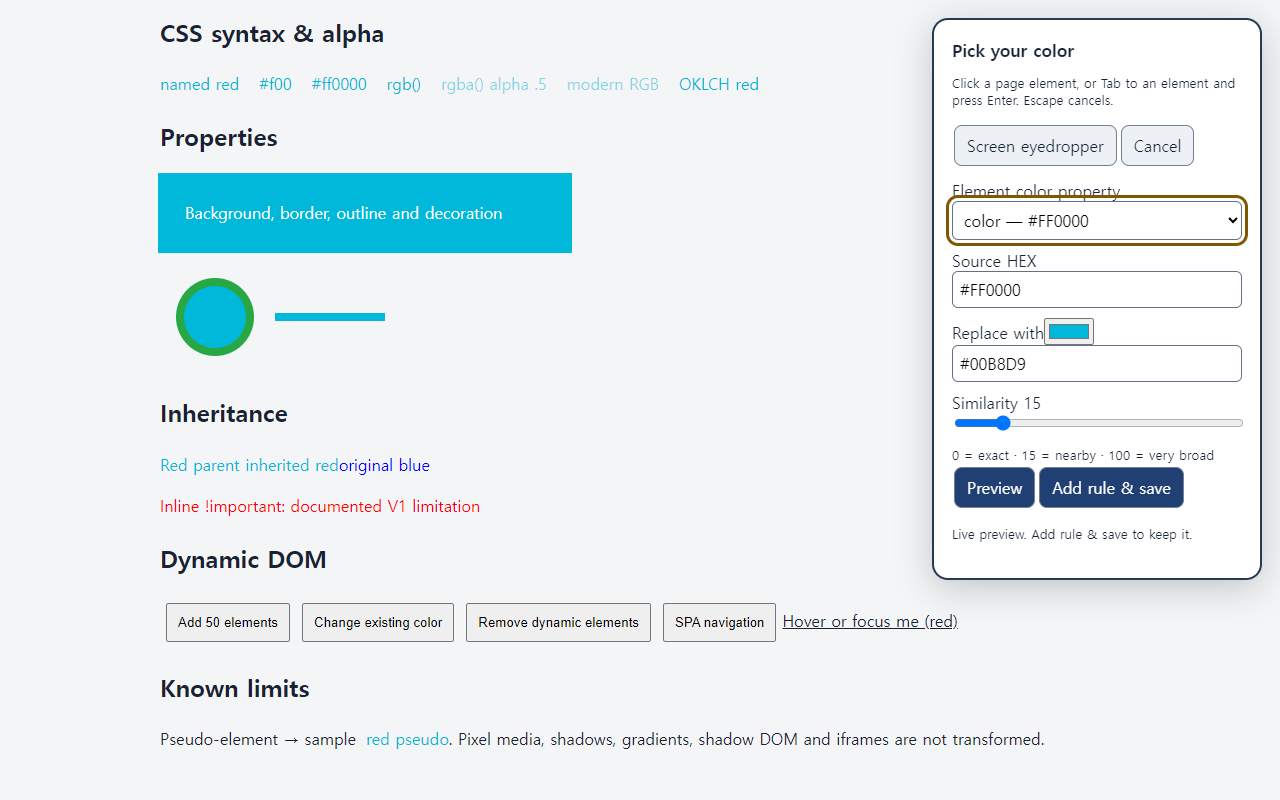
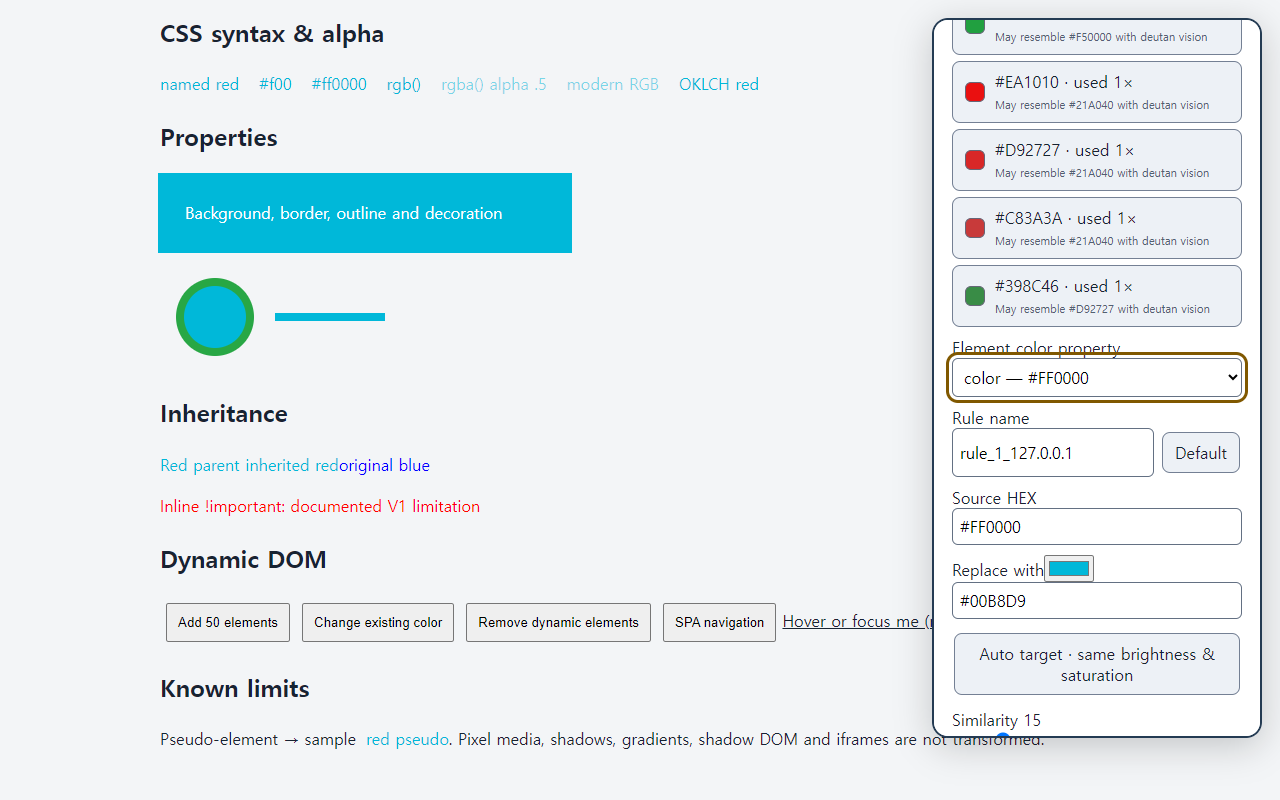
Add named rules and color accessibility suggestions

Changed region(s): [[0.7188, 0.0312, 1.0, 0.8125], [0.7188, 0.875, 0.9688, 0.9375], [0.75, 0.8125, 0.9688, 0.875]]

diff --git a/ui/rule-editor.js b/ui/rule-editor.js
@@ -1,52 +1,49 @@
 (() => {
   const { Color, Model, C } = PCR;
   PCR.RuleEditor = class {
-    constructor(container, onChange) { this.container = container; this.onChange = onChange; }
-    set(rules) { this.rules = rules; this.render(); }
+    constructor(container, onChange) { this.container = container; this.onChange = onChange; this.scope = 'global'; }
+    set(rules, scope = this.scope) { this.rules = rules; this.scope = scope || 'global'; this.syncDefaults(); this.render(); }
+    setScope(scope) { this.scope = scope || 'global'; this.syncDefaults(); this.render(); }
     valid() { return !this.container.querySelector('[aria-invalid="true"]'); }
-    add(source) { if (this.rules.length >= C.MAX_RULES) throw new Error(`Maximum ${C.MAX_RULES} rules.`); this.rules.push(Model.rule(source)); this.render(); this.onChange(); this.container.lastElementChild?.querySelector('input')?.focus(); }
+    syncDefaults() { this.rules.forEach((rule, index) => { if (!rule.customName) { rule.name = Model.defaultRuleName(index, this.scope); rule.customName = false; } }); }
+    add(source) { if (this.rules.length >= C.MAX_RULES) throw new Error(`Maximum ${C.MAX_RULES} rules.`); this.rules.push(Model.rule(source, this.rules.length, this.scope)); this.render(); this.onChange(); this.container.lastElementChild?.querySelector('.rule-name')?.focus(); }
     render() {
-      this.container.replaceChildren();
+      this.syncDefaults(); this.container.replaceChildren();
       if (!this.rules.length) { const p = document.createElement('p'); p.className = 'empty'; p.textContent = 'Choose a difficult color, then a replacement you can distinguish.'; this.container.append(p); }
       this.rules.forEach((rule, index) => {
         const fieldset = document.createElement('fieldset'); fieldset.className = 'rule';
-        const legend = document.createElement('legend'); legend.textContent = `Rule ${index + 1}`; fieldset.append(legend);
+        const legend = document.createElement('legend'); legend.textContent = rule.name; fieldset.append(legend);
+        const nameRow = document.createElement('div'); nameRow.className = 'rule-name-row';
+        const nameLabel = document.createElement('label'); nameLabel.className = 'name'; nameLabel.append('Rule name');
+        const name = document.createElement('input'); name.type = 'text'; name.className = 'rule-name'; name.value = rule.name; name.maxLength = 120; name.readOnly = true; name.setAttribute('aria-label', `Rule ${index + 1} name`); nameLabel.append(name);
+        const rename = document.createElement('button'); rename.type = 'button'; rename.textContent = 'Rename'; rename.onclick = () => { name.readOnly = false; name.focus(); name.select(); };
+        const reset = document.createElement('button'); reset.type = 'button'; reset.textContent = 'Default'; reset.title = 'Restore the generated rule name';
+        reset.onclick = () => { rule.customName = false; rule.name = Model.defaultRuleName(index, this.scope); name.value = rule.name; name.readOnly = true; legend.textContent = rule.name; this.onChange(); };
+        name.oninput = () => { const value = name.value.trim(); name.setAttribute('aria-invalid', String(!value)); if (value) { rule.name = value; rule.customName = true; legend.textContent = value; } this.onChange(); };
+        name.onblur = () => { if (name.value.trim()) name.readOnly = true; };
+        nameRow.append(nameLabel, rename, reset); fieldset.append(nameRow);
         const toggle = document.createElement('label'); toggle.className = 'toggle';
-        const checkbox = document.createElement('input'); checkbox.type = 'checkbox'; checkbox.checked = rule.enabled;
-        checkbox.onchange = () => { rule.enabled = checkbox.checked; this.onChange(); };
+        const checkbox = document.createElement('input'); checkbox.type = 'checkbox'; checkbox.checked = rule.enabled; checkbox.onchange = () => { rule.enabled = checkbox.checked; this.onChange(); };
         toggle.append(checkbox, 'Rule enabled'); fieldset.append(toggle);
         const fields = document.createElement('div'); fields.className = 'color-fields';
         for (const [key, title] of [['source', 'Source'], ['target', 'Target']]) {
-          const label = document.createElement('div'); label.className = 'color-field';
-          const span = document.createElement('span'); span.textContent = title;
-          const row = document.createElement('div'); row.className = 'row';
+          const label = document.createElement('div'); label.className = 'color-field'; const span = document.createElement('span'); span.textContent = title; const row = document.createElement('div'); row.className = 'row';
           const color = document.createElement('input'); color.type = 'color'; color.value = rule[key]; color.setAttribute('aria-label', `Rule ${index + 1} ${title} color`);
           const hex = document.createElement('input'); hex.type = 'text'; hex.className = 'hex'; hex.value = rule[key]; hex.maxLength = 7; hex.spellcheck = false; hex.setAttribute('aria-label', `Rule ${index + 1} ${title} HEX`);
           const error = document.createElement('small'); error.className = 'error'; error.id = `error-${rule.id}-${key}`; error.setAttribute('aria-live', 'polite'); hex.setAttribute('aria-describedby', error.id);
           color.oninput = () => { rule[key] = color.value.toUpperCase(); hex.value = rule[key]; hex.removeAttribute('aria-invalid'); error.textContent = ''; this.onChange(); };
-          hex.oninput = () => {
-            const valid = /^#(?:[\da-f]{3}|[\da-f]{6})$/i.test(hex.value.trim());
-            hex.setAttribute('aria-invalid', String(!valid)); error.textContent = valid ? '' : 'Use #RGB or #RRGGBB';
-            if (valid) { rule[key] = Color.rgbToHex(Color.hexToRgb(hex.value.trim())); color.value = rule[key]; }
-            this.onChange();
-          };
+          hex.oninput = () => { const valid = /^#(?:[\da-f]{3}|[\da-f]{6})$/i.test(hex.value.trim()); hex.setAttribute('aria-invalid', String(!valid)); error.textContent = valid ? '' : 'Use #RGB or #RRGGBB'; if (valid) { rule[key] = Color.rgbToHex(Color.hexToRgb(hex.value.trim())); color.value = rule[key]; } this.onChange(); };
           row.append(color, hex); label.append(span, row, error); fields.append(label);
         }
         fieldset.append(fields);
-        const label = document.createElement('label'); const text = document.createElement('span'); text.className = 'threshold-label';
-        const output = document.createElement('output'); output.value = rule.threshold;
-        text.append('Similarity', output);
-        const range = document.createElement('input'); range.type = 'range'; range.min = C.THRESHOLD_MIN; range.max = C.THRESHOLD_MAX; range.step = 1; range.value = rule.threshold;
-        range.setAttribute('aria-label', `Rule ${index + 1} similarity`);
-        range.oninput = () => { rule.threshold = Number(range.value); output.value = range.value; this.onChange(); };
+        const recommend = document.createElement('button'); recommend.type = 'button'; recommend.className = 'recommend'; recommend.textContent = 'Auto target · same brightness & saturation';
+        recommend.onclick = () => { const suggestion = Color.recommendTarget(rule.source); if (!suggestion) return; rule.target = suggestion.hex; this.render(); this.onChange(); }; fieldset.append(recommend);
+        const label = document.createElement('label'); const text = document.createElement('span'); text.className = 'threshold-label'; const output = document.createElement('output'); output.value = rule.threshold; text.append('Similarity', output);
+        const range = document.createElement('input'); range.type = 'range'; range.min = C.THRESHOLD_MIN; range.max = C.THRESHOLD_MAX; range.step = 1; range.value = rule.threshold; range.setAttribute('aria-label', `Rule ${index + 1} similarity`); range.oninput = () => { rule.threshold = Number(range.value); output.value = range.value; this.onChange(); };
         label.append(text, range); fieldset.append(label);
         const actions = document.createElement('div'); actions.className = 'rule-actions';
-        for (const [title, offset] of [['Move up', -1], ['Move down', 1]]) {
-          const button = document.createElement('button'); button.textContent = title; button.type = 'button'; button.disabled = index + offset < 0 || index + offset >= this.rules.length;
-          button.onclick = () => { const other = index + offset; [this.rules[index], this.rules[other]] = [this.rules[other], this.rules[index]]; this.render(); this.onChange(); }; actions.append(button);
-        }
-        const remove = document.createElement('button'); remove.type = 'button'; remove.className = 'danger'; remove.textContent = 'Delete'; remove.setAttribute('aria-label', `Delete rule ${index + 1}`);
-        remove.onclick = () => { this.rules.splice(index, 1); this.render(); this.onChange(); this.container.querySelector('input')?.focus(); }; actions.append(remove); fieldset.append(actions);
+        for (const [title, offset] of [['Move up', -1], ['Move down', 1]]) { const button = document.createElement('button'); button.textContent = title; button.type = 'button'; button.disabled = index + offset < 0 || index + offset >= this.rules.length; button.onclick = () => { const other = index + offset; [this.rules[index], this.rules[other]] = [this.rules[other], this.rules[index]]; this.syncDefaults(); this.render(); this.onChange(); }; actions.append(button); }
+        const remove = document.createElement('button'); remove.type = 'button'; remove.className = 'danger'; remove.textContent = 'Delete'; remove.setAttribute('aria-label', `Delete rule ${index + 1}`); remove.onclick = () => { this.rules.splice(index, 1); this.syncDefaults(); this.render(); this.onChange(); this.container.querySelector('input')?.focus(); }; actions.append(remove); fieldset.append(actions);
         this.container.append(fieldset);
       });
     }

diff --git a/content/picker.js b/content/picker.js
@@ -14,13 +14,16 @@
         button{padding:9px 12px;background:#edf1f6;color:#172332;border:1px solid #748094;border-radius:8px;cursor:pointer;margin:4px 2px}button.primary{background:#203f73;color:white}button:disabled{opacity:.5;cursor:default}
         :focus-visible{outline:3px solid #805800;outline-offset:3px}input[type=range]{width:100%}
         #box{position:fixed;border:3px dashed #111;outline:2px solid white;pointer-events:none;display:none}
-        #notice{min-height:22px}small{display:block}
+        #notice{min-height:22px}small{display:block}.suggestions{display:grid;gap:6px;margin:8px 0}.suggestion{display:grid;grid-template-columns:22px 1fr;gap:8px;text-align:left;align-items:center;margin:0}.dot{width:20px;height:20px;border:1px solid #667;border-radius:6px}.hint{font-size:11px;color:#526071}.inline{display:flex;gap:6px}.inline input{flex:1}
       </style><div id="box"></div><section role="dialog" aria-label="Choose and replace a page color">
         <h2>Pick your color</h2><p>Click a page element, or Tab to an element and press Enter. Escape cancels.</p>
         <button id="native">Screen eyedropper</button><button id="cancel">Cancel</button>
+        <details open><summary>Likely red/green confusion colors</summary><div id="suggestions" class="suggestions"><small>Analyzing colors used on this page…</small></div></details>
         <label>Element color property<select id="property" aria-label="Selected element color property"><option>Select a page element first</option></select></label>
+        <label>Rule name<div class="inline"><input id="name" type="text" maxlength="120"><button id="default-name" type="button">Default</button></div></label>
         <label>Source HEX<input id="source" type="text" value="#28A745" maxlength="7"></label>
         <label>Replace with<input id="target" type="color" value="#2979ff" aria-label="Replacement color"><input id="hex" type="text" value="#2979FF" maxlength="7" aria-label="Replacement HEX"></label>
+        <button id="recommend" type="button">Auto target · same brightness & saturation</button>
         <label>Similarity <output id="value">${P.C.THRESHOLD_DEFAULT}</output><input id="range" type="range" min="${P.C.THRESHOLD_MIN}" max="${P.C.THRESHOLD_MAX}" value="${P.C.THRESHOLD_DEFAULT}"></label>
         <small>0 = exact · 15 = nearby · 100 = very broad</small>
         <button id="preview" class="primary">Preview</button><button id="save" class="primary" disabled>Add rule & save</button>
@@ -30,7 +33,8 @@
       this.$ = id => root.getElementById(id);
       this.selected = false; this.previewing = false;
       this.profile = structuredClone(this.state.profiles[this.host] || P.Model.profile(this.host));
-      this.newRule = P.Model.rule();
+      this.newRule = P.Model.rule('#28A745', this.profile.rules.length, this.host);
+      this.$('name').value = this.newRule.name;
       this.hover = e => {
         if (this.previewing || e.composedPath().includes(this.hostElement) || !(e.target instanceof Element)) return;
         const rect = e.target.getBoundingClientRect();
@@ -48,12 +52,15 @@
       this.key = e => { if (e.key === 'Escape') { e.preventDefault(); this.stop(); } else if (e.key === 'Enter' && !e.composedPath().includes(this.hostElement)) this.choose(e); };
       document.addEventListener('pointermove', this.hover, true); document.addEventListener('click', this.choose, true); document.addEventListener('keydown', this.key, true);
       this.$('property').onchange = () => this.select(this.$('property').value);
+      this.$('name').oninput = () => { this.newRule.name = this.$('name').value.trim(); this.newRule.customName = true; this.update(); };
+      this.$('default-name').onclick = () => { this.newRule.customName = false; this.newRule.name = P.Model.defaultRuleName(this.profile.rules.length, this.host); this.$('name').value = this.newRule.name; this.update(); };
       this.$('cancel').onclick = () => this.stop();
       this.$('target').oninput = () => { this.$('hex').value = this.$('target').value.toUpperCase(); this.update(); };
       this.$('hex').oninput = () => { const c = P.Color.hexToRgb(this.$('hex').value); if (c) this.$('target').value = P.Color.rgbToHex(c); this.update(); };
       this.$('source').oninput = () => { this.selected = true; this.update(); };
       this.$('range').oninput = () => { this.$('value').value = this.$('range').value; this.update(); };
       this.$('preview').onclick = () => { this.previewing = true; this.$('box').style.display = 'none'; this.update(); };
+      this.$('recommend').onclick = () => this.recommend();
       this.$('save').onclick = async () => {
         try {
           if (!this.update()) return;
@@ -74,15 +81,38 @@
           this.select(result.sRGBHex); this.$('source').focus();
         } catch (e) { if (e.name !== 'AbortError') this.$('notice').textContent = 'Screen eyedropper unavailable. Click a page element instead.'; }
       };
+      setTimeout(() => this.renderSuggestions(), 0);
       this.$('cancel').focus();
     }
-    select(hex) { this.selected = true; this.$('source').value = hex; this.$('notice').textContent = `Detected ${hex}. Choose a replacement, then preview.`; this.update(); }
+    renderSuggestions() {
+      if (!this.hostElement) return;
+      try {
+        const report = this.scanner.confusingColors(); const box = this.$('suggestions'); box.replaceChildren();
+        if (!report.suggestions.length) { const empty = document.createElement('small'); empty.textContent = `No strong confusion pairs found among ${report.unique} page colors. You can still click any element.`; box.append(empty); return; }
+        for (const item of report.suggestions) {
+          const button = document.createElement('button'); button.type = 'button'; button.className = 'suggestion';
+          const dot = document.createElement('span'); dot.className = 'dot'; dot.style.background = item.hex; dot.setAttribute('aria-hidden', 'true');
+          const text = document.createElement('span'); text.append(`${item.hex} · used ${item.count}×`);
+          const hint = document.createElement('span'); hint.className = 'hint'; hint.textContent = `May resemble ${item.mate} with ${item.type === 'protan' ? 'protan' : 'deutan'} vision`; text.append(document.createElement('br'), hint);
+          button.append(dot, text); button.onclick = () => { this.select(item.hex, item.mate); this.$('source').focus(); };
+          box.append(button);
+        }
+      } catch (e) { this.$('suggestions').textContent = 'Page color analysis was unavailable. Click an element instead.'; }
+    }
+    recommend() {
+      const suggestion = P.Color.recommendTarget(this.$('source').value.trim(), this.currentMate ? [this.currentMate] : []);
+      if (!suggestion) { this.$('notice').textContent = 'Choose a valid source color first.'; return; }
+      this.$('target').value = suggestion.hex; this.$('hex').value = suggestion.hex;
+      this.$('notice').textContent = suggestion.exactChroma ? `Suggested ${suggestion.hex}; OKLCH brightness and saturation are preserved.` : `Suggested ${suggestion.hex}; brightness is preserved and saturation was reduced slightly to fit sRGB.`;
+      this.update();
+    }
+    select(hex, mate = null) { this.selected = true; this.currentMate = mate; this.$('source').value = hex; this.$('notice').textContent = `Detected ${hex}. Choose a replacement, then preview.`; this.update(); }
     update() {
       const source = this.$('source').value.trim(), target = this.$('hex').value.trim();
-      const valid = this.selected && [source, target].every(v => /^#(?:[\da-f]{3}|[\da-f]{6})$/i.test(v));
+      const valid = this.selected && this.$('name').value.trim() && [source, target].every(v => /^#(?:[\da-f]{3}|[\da-f]{6})$/i.test(v));
       this.$('save').disabled = !valid;
       if (!valid) { this.$('notice').textContent = 'Select a color and enter valid #RGB or #RRGGBB values.'; return false; }
-      Object.assign(this.newRule, { source: P.Color.rgbToHex(P.Color.hexToRgb(source)), target: P.Color.rgbToHex(P.Color.hexToRgb(target)), threshold: Number(this.$('range').value) });
+      Object.assign(this.newRule, { name: this.$('name').value.trim(), source: P.Color.rgbToHex(P.Color.hexToRgb(source)), target: P.Color.rgbToHex(P.Color.hexToRgb(target)), threshold: Number(this.$('range').value) });
       if (this.previewing) {
         try {
           const profile = structuredClone(this.profile); profile.rules.push(this.newRule); this.preview(profile);

diff --git a/utils/color.js b/utils/color.js
@@ -42,6 +42,82 @@
       1.9779984951*l - 2.428592205*m + 0.4505937099*s,
       0.0259040371*l + 0.7827717662*m - 0.808675766*s];
   }
+  function fromOklab([L, a, b]) {
+    const l = (L + 0.3963377774*a + 0.2158037573*b) ** 3;
+    const m = (L - 0.1055613458*a - 0.0638541728*b) ** 3;
+    const s = (L - 0.0894841775*a - 1.291485548*b) ** 3;
+    const linear = [
+      4.0767416621*l - 3.3077115913*m + 0.2309699292*s,
+      -1.2684380046*l + 2.6097574011*m - 0.3413193965*s,
+      -0.0041960863*l - 0.7034186147*m + 1.707614701*s
+    ];
+    const srgb = v => 255 * (v <= 0.0031308 ? 12.92*v : 1.055*Math.pow(v, 1/2.4) - 0.055);
+    return { r: srgb(linear[0]), g: srgb(linear[1]), b: srgb(linear[2]), a: 1 };
+  }
+  const toOklch = rgb => { const [L, a, b] = toOklab(rgb); return [L, Math.hypot(a, b), (Math.atan2(b, a) * 180 / Math.PI + 360) % 360]; };
+  const fromOklch = ([L, C, h]) => { const rad = h * Math.PI / 180; return fromOklab([L, C*Math.cos(rad), C*Math.sin(rad)]); };
+  const inGamut = rgb => [rgb.r, rgb.g, rgb.b].every(v => Number.isFinite(v) && v >= -0.001 && v <= 255.001);
+  function simulate(rgb, type) {
+    const linearize = v => (v /= 255) <= 0.04045 ? v / 12.92 : ((v + 0.055) / 1.055) ** 2.4;
+    const encode = v => 255 * (v <= 0.0031308 ? 12.92*v : 1.055*Math.pow(Math.max(0, v), 1/2.4) - 0.055);
+    const v = [linearize(rgb.r), linearize(rgb.g), linearize(rgb.b)];
+    const matrices = {
+      protan: [[0.152286,1.052583,-0.204868],[0.114503,0.786281,0.099216],[-0.003882,-0.048116,1.051998]],
+      deutan: [[0.367322,0.860646,-0.227968],[0.280085,0.672501,0.047413],[-0.011820,0.042940,0.968881]]
+    };
+    const out = matrices[type].map(row => row.reduce((sum, n, i) => sum + n*v[i], 0));
+    return { r: clamp(encode(out[0]), 255), g: clamp(encode(out[1]), 255), b: clamp(encode(out[2]), 255), a: rgb.a ?? 1 };
+  }
+  function confusionCandidates(entries, limit = 8) {
+    const colors = entries.map(entry => ({ ...entry, rgb: hexToRgb(entry.hex) })).filter(x => x.rgb);
+    const pairs = [];
+    for (let i = 0; i < colors.length; i++) for (let j = i + 1; j < colors.length; j++) {
+      const normal = distance(toOklab(colors[i].rgb), toOklab(colors[j].rgb));
+      if (normal < 6) continue;
+      for (const type of ['protan', 'deutan']) {
+        const simulated = distance(toOklab(simulate(colors[i].rgb, type)), toOklab(simulate(colors[j].rgb, type)));
+        const collapse = normal - simulated;
+        if (simulated <= 14 && collapse >= 3 && simulated / normal <= 0.72) {
+          const score = collapse * (1 + Math.log2(1 + Math.min(colors[i].count, colors[j].count)) / 4);
+          pairs.push({ a: colors[i], b: colors[j], type, normal, simulated, score });
+        }
+      }
+    }
+    pairs.sort((a, b) => b.score - a.score);
+    const result = [], seen = new Set();
+    for (const pair of pairs) {
+      for (const [color, mate] of [[pair.a, pair.b], [pair.b, pair.a]]) {
+        if (seen.has(color.hex)) continue;
+        seen.add(color.hex); result.push({ hex: color.hex, count: color.count, mate: mate.hex, type: pair.type,
+          normal: Number(pair.normal.toFixed(1)), simulated: Number(pair.simulated.toFixed(1)) });
+        if (result.length >= limit) return result;
+      }
+    }
+    return result;
+  }
+  function recommendTarget(source, avoid = []) {
+    const rgb = typeof source === 'string' ? hexToRgb(source) : source;
+    if (!rgb) return null;
+    const [L, originalC] = toOklch(rgb);
+    const avoidRgb = avoid.map(value => typeof value === 'string' ? hexToRgb(value) : value).filter(Boolean);
+    const hues = [255, 275, 295, 230, 315, 210, 330, 195];
+    const candidates = [];
+    for (const hue of hues) {
+      let C = originalC, candidate = fromOklch([L, C, hue]);
+      while (!inGamut(candidate) && C > 0.005) { C *= 0.97; candidate = fromOklch([L, C, hue]); }
+      if (!inGamut(candidate)) continue;
+      const distances = ['protan', 'deutan'].flatMap(type => {
+        const transformed = simulate(candidate, type);
+        return [distance(toOklab(transformed), toOklab(simulate(rgb, type))),
+          ...avoidRgb.map(other => distance(toOklab(transformed), toOklab(simulate(other, type))))];
+      });
+      candidates.push({ rgb: candidate, hue, chroma: C, score: Math.min(...distances) });
+    }
+    candidates.sort((a, b) => b.score - a.score);
+    const best = candidates[0];
+    return best && { hex: rgbToHex(best.rgb), lightness: L, sourceChroma: originalC, targetChroma: best.chroma,
+      exactChroma: Math.abs(best.chroma - originalC) < 0.001, hue: best.hue };
+  }
   const distance = (a, b) => 100 * Math.hypot(...a.map((v, i) => v - b[i]));
   const css = ({ r, g, b, a = 1 }) => `rgba(${Math.round(r)}, ${Math.round(g)}, ${Math.round(b)}, ${Number(a.toFixed(5))})`;
   // Browser adapter for named colors, hsl(), lab(), oklch(), color(), etc.
@@ -58,5 +134,6 @@
       return { r, g, b, a: a / 255 };
     };
   }
-  P.Color = { hexToRgb, rgbToHex, parseCss, toOklab, distance, css, browserParser };
+  P.Color = { hexToRgb, rgbToHex, parseCss, toOklab, fromOklab, toOklch, fromOklch, distance, css,
+    simulate, confusionCandidates, recommendTarget, browserParser };
 })();

diff --git a/guide/guide.html b/guide/guide.html
@@ -1,0 +1,11 @@
+<!doctype html><html lang="ko"><head><meta charset="utf-8"><meta name="viewport" content="width=device-width,initial-scale=1"><title>Personal Color Remapper 사용 가이드</title><link rel="stylesheet" href="guide.css"></head>
+<body><header><div class="mark" aria-hidden="true">↔</div><div><p class="eyebrow">Personal Color Remapper</p><h1>내 눈에 맞는 색으로 웹을 다시 읽는 방법</h1><p>어려운 색을 고르고, 비슷한 색의 범위를 정하고, 구분하기 쉬운 색으로 바꾸세요.</p></div></header>
+<main><nav aria-label="목차"><strong>빠른 이동</strong><a href="#quick">첫 규칙 만들기</a><a href="#suggestions">혼동 색상 추천</a><a href="#auto">자동 대체색</a><a href="#names">규칙 이름</a><a href="#global">모든 사이트</a><a href="#manage">백업과 관리</a><a href="#limits">제한사항</a></nav><article>
+<section id="quick"><span class="step">1</span><h2>첫 규칙 만들기</h2><ol><li>바꾸려는 웹사이트에서 Extension 아이콘을 엽니다.</li><li><b>Pick color from page</b>를 누르고 페이지 요소를 클릭합니다.</li><li>요소에 여러 색 속성이 있으면 text, background, border, fill 중 원하는 항목을 고릅니다.</li><li>Target과 Similarity를 정합니다. 0은 정확한 색만, 15는 가까운 색까지 포함합니다.</li><li><b>Preview</b>로 확인한 뒤 <b>Add rule &amp; save</b>를 누릅니다.</li></ol><aside>Popup에서 직접 Source와 Target을 입력할 수도 있습니다. Popup을 닫으면 미저장 미리보기는 원복됩니다.</aside></section>
+<section id="suggestions"><span class="step">2</span><h2>페이지의 적록 혼동 후보 바로 선택</h2><p>색상 선택 패널은 현재 페이지에서 실제 사용 중인 CSS/SVG 색을 수집합니다. 적색맹·녹색맹 시뮬레이션에서 서로 가까워지는 색상 쌍을 찾아 사용 빈도와 함께 보여줍니다.</p><p>제안 항목을 누르면 Source로 들어갑니다. “may resemble” 옆의 색은 해당 색과 혼동될 가능성이 있는 페이지 색입니다. 추천은 진단이 아니며 실제로 불편한 색인지 미리보기로 확인하세요.</p></section>
+<section id="auto"><span class="step">3</span><h2>밝기와 채도를 맞춘 자동 대체색</h2><p><b>Auto target · same brightness &amp; saturation</b>은 원본을 OKLCH로 변환한 뒤 밝기(L)와 채도(C)를 유지하면서 파랑·청록·보라 계열 후보 중 적록 색각 시뮬레이션에서 가장 잘 구분되는 색을 선택합니다.</p><p>같은 밝기와 채도의 색이 sRGB 화면 범위 밖이면 밝기는 유지하고 채도만 화면에 표시 가능한 수준까지 조금 낮춥니다. 자동 추천 후에도 주변 배경과의 대비를 직접 확인하세요.</p></section>
+<section id="names"><span class="step">4</span><h2>규칙 이름 관리</h2><p>새 규칙의 기본 이름은 <code>rule_번호_웹주소</code>입니다. 예: <code>rule_1_github.com</code>.</p><ul><li><b>Rename</b>: 이름 입력을 열어 “실패 상태 빨강”처럼 변경합니다.</li><li><b>Default</b>: 현재 순서와 사이트 주소를 이용한 기본 이름으로 되돌립니다.</li><li>기본 이름 상태의 규칙은 순서를 이동하거나 앞 규칙을 삭제하면 번호가 자동으로 갱신됩니다.</li></ul></section>
+<section id="global"><span class="step">5</span><h2>모든 사이트에 적용</h2><ol><li><b>Advanced settings</b>에서 Global 프로필을 선택합니다.</li><li><b>Profile enabled</b>를 켜고 규칙을 저장합니다.</li><li><b>Allow all websites…</b>를 눌러 사이트 접근을 허용합니다.</li></ol><aside>도메인 규칙이 Global 규칙보다 먼저 적용됩니다. 특정 사이트 프로필을 끄면 그 사이트에서는 Global 규칙도 적용되지 않습니다.</aside></section>
+<section id="manage"><span class="step">6</span><h2>프로필, 백업, 복구</h2><p>Advanced settings에서 도메인별 프로필을 복제·삭제할 수 있습니다. Export는 모든 저장 설정을 JSON으로 내려받고 Import는 검증 후 기존 설정을 교체합니다. Reset 전에 Export로 백업하는 것을 권장합니다.</p></section>
+<section id="limits"><span class="step">7</span><h2>지원 범위와 문제 해결</h2><ul><li>지원: 텍스트, 배경, 테두리, outline, text decoration, SVG fill/stroke.</li><li>미지원: 이미지, 영상, Canvas, WebGL, gradient, shadow DOM, iframe 내부.</li><li>Chrome 설정과 Chrome Web Store 같은 보호 페이지에는 적용할 수 없습니다.</li><li>저장 후 새 방문에 적용되지 않으면 사이트 권한을 확인하고 열린 탭을 새로고침하세요.</li><li>너무 많은 색이 바뀌면 Similarity를 낮추고 규칙 순서를 확인하세요. 먼저 일치한 규칙이 적용됩니다.</li></ul></section>
+</article></main><footer><p>모든 처리는 브라우저 안에서 이루어집니다. 서버, 계정, 분석 도구를 사용하지 않습니다.</p><a href="../privacy.html">개인정보처리방침</a></footer></body></html>

diff --git a/utils/model.js b/utils/model.js
@@ -3,30 +3,35 @@
   const { C, Color, Domain } = P;
   const profile = (name = 'My palette') => ({ enabled: true, name, rules: [] });
   const defaults = () => ({ version: C.VERSION, settings: { enabled: true }, globalProfile: { ...profile('Global palette'), enabled: false }, profiles: {} });
-  const rule = (source = '#28A745') => ({ id: crypto.randomUUID(), enabled: true, source, target: '#2979FF', threshold: C.THRESHOLD_DEFAULT });
+  const defaultRuleName = (index, scope = 'global') => `rule_${index + 1}_${scope || 'global'}`;
+  const rule = (source = '#28A745', index = 0, scope = 'global') => ({ id: crypto.randomUUID(),
+    name: defaultRuleName(index, scope), customName: false, enabled: true, source, target: '#2979FF', threshold: C.THRESHOLD_DEFAULT });
   function validate(input) {
     const fail = msg => { throw new Error(`Invalid settings: ${msg}`); };
     const object = v => v && typeof v === 'object' && !Array.isArray(v);
     if (!object(input) || input.version !== C.VERSION) fail('unsupported version');
     if (!object(input.settings) || typeof input.settings.enabled !== 'boolean') fail('enabled must be boolean');
-    function checkProfile(p) {
+    function checkProfile(p, scope) {
       if (!object(p) || typeof p.enabled !== 'boolean' || typeof p.name !== 'string' || p.name.length > 100 || !Array.isArray(p.rules) || p.rules.length > C.MAX_RULES) fail('malformed profile');
       const ids = new Set();
-      return { enabled: p.enabled, name: p.name, rules: p.rules.map(r => {
+      return { enabled: p.enabled, name: p.name, rules: p.rules.map((r, index) => {
         if (!object(r) || typeof r.id !== 'string' || !r.id || r.id.length > 100 || ids.has(r.id) || typeof r.enabled !== 'boolean') fail('malformed or duplicate rule');
         ids.add(r.id);
         if (![r.source, r.target].every(c => typeof c === 'string' && /^#(?:[\da-f]{3}|[\da-f]{6})$/i.test(c))) fail('use opaque HEX source/target colors');
         if (!Number.isFinite(r.threshold) || r.threshold < C.THRESHOLD_MIN || r.threshold > C.THRESHOLD_MAX) fail('threshold out of range');
-        return { id: r.id, enabled: r.enabled, source: Color.rgbToHex(Color.hexToRgb(r.source)), target: Color.rgbToHex(Color.hexToRgb(r.target)), threshold: r.threshold };
+        const customName = r.customName === true;
+        const name = customName && typeof r.name === 'string' && r.name.trim() ? r.name.trim() : defaultRuleName(index, scope);
+        if (name.length > 120) fail('rule name is too long');
+        return { id: r.id, name, customName, enabled: r.enabled, source: Color.rgbToHex(Color.hexToRgb(r.source)), target: Color.rgbToHex(Color.hexToRgb(r.target)), threshold: r.threshold };
       }) };
     }
     if (!object(input.profiles) || Object.keys(input.profiles).length > C.MAX_PROFILES) fail('invalid profiles');
     const profiles = {};
     for (const [host, p] of Object.entries(input.profiles)) {
       if (!Domain.validHost(host)) fail('invalid hostname');
-      profiles[host] = checkProfile(p);
+      profiles[host] = checkProfile(p, host);
     }
-    return { version: C.VERSION, settings: { enabled: input.settings.enabled }, globalProfile: checkProfile(input.globalProfile), profiles };
+    return { version: C.VERSION, settings: { enabled: input.settings.enabled }, globalProfile: checkProfile(input.globalProfile, 'global'), profiles };
   }
   function effective(state, host) {
     if (!state.settings.enabled) return [];
@@ -44,5 +49,5 @@
     const { version, ...rest } = validate(state);
     return JSON.stringify({ schemaVersion: version, exportedAt: new Date().toISOString(), ...rest }, null, 2);
   }
-  P.Model = { profile, defaults, rule, validate, effective, importJSON, exportJSON };
+  P.Model = { profile, defaults, rule, defaultRuleName, validate, effective, importJSON, exportJSON };
 })();

diff --git a/options/options.html b/options/options.html
@@ -1,5 +1,5 @@
 <!doctype html><html lang="en"><head><meta charset="utf-8"><meta name="viewport" content="width=device-width,initial-scale=1"><title>Color Remapper · Palettes</title><link rel="stylesheet" href="../ui/shared.css"><link rel="stylesheet" href="options.css">
 <script src="../utils/constants.js" defer></script><script src="../utils/color.js" defer></script><script src="../utils/domain.js" defer></script><script src="../utils/model.js" defer></script><script src="../utils/storage.js" defer></script><script src="../ui/rule-editor.js" defer></script><script src="options.js" defer></script></head>
-<body><header class="row between"><div class="row"><span class="swatchmark" aria-hidden="true">↔</span><div><h1>Personal Color Remapper</h1><p class="muted">A palette that makes sense to you.</p></div></div><label class="toggle"><input id="enabled" type="checkbox">Extension enabled</label></header>
+<body><header class="row between"><div class="row"><span class="swatchmark" aria-hidden="true">↔</span><div><h1>Personal Color Remapper</h1><p class="muted">A palette that makes sense to you.</p></div></div><div class="row"><a href="../guide/guide.html" target="_blank">User guide</a><label class="toggle"><input id="enabled" type="checkbox">Extension enabled</label></div></header>
 <main><aside class="stack"><section class="card stack"><h2>Saved palettes</h2><label class="name">Select profile<select id="profiles" size="8" aria-label="Saved profiles"></select></label><label class="name">New domain<input id="new-domain" type="text" placeholder="github.com" spellcheck="false"></label><button id="create">Create domain profile</button></section><section class="card stack"><h2>Import & export</h2><button id="export">Export all settings</button><label class="name">Import settings JSON<input id="import" type="file" accept=".json,application/json"></label><button id="reset" class="danger">Reset all settings</button><small>JSON import replaces settings after confirmation. Site permissions are managed separately.</small></section></aside>
 <section class="editor card"><div class="eyebrow">Your palette</div><h2 id="scope">Global</h2><label class="name">Profile name<input id="name" type="text" maxlength="100"></label><label class="toggle spaced"><input id="profile-enabled" type="checkbox">Profile enabled</label><p class="help">Site rules override global rules. Within a palette, the first matching rule wins. A disabled site profile also blocks global rules on that site.</p><div id="rules"></div><button id="add" class="full">+ Add color rule</button><p id="status" class="status" role="status" aria-live="polite"></p><div class="row wrap"><button id="save" class="primary">Save palette</button><button id="cancel">Discard edits</button><button id="duplicate">Duplicate to domain</button><button id="delete" class="danger">Delete profile</button></div><hr><h2>Automatic site access</h2><p class="help">Saving a domain profile requests access to that hostname. Global rules work on granted sites. You can optionally grant all HTTP/HTTPS sites here.</p><div class="row wrap"><button id="grant-all">Allow all websites…</button><button id="revoke-all">Revoke all site access</button></div><p id="permissions" class="help"></p><hr><p class="help">Private by design: no account, server, analytics or browsing data transmission. V1 changes CSS colors and SVG fill/stroke. Images, canvas, videos, gradients, shadow DOM and frame contents are outside V1.</p></section></main></body></html>

diff --git a/ui/shared.css b/ui/shared.css
@@ -2,3 +2,4 @@
 *{box-sizing:border-box}body{margin:0}button,input,select{font:inherit}button{cursor:pointer;border:1px solid #8894a3;background:white;color:#20304a;padding:9px 12px;border-radius:9px;font-weight:600}button:hover{background:#eaf0f7}button:disabled{opacity:.55;cursor:not-allowed}button.primary{background:#234775;color:#fff;border-color:#234775}button.danger{color:#8d2531}button.link{border:0;background:transparent;padding:6px 0;text-decoration:underline}
 :focus-visible{outline:3px solid #805a00;outline-offset:3px}input[type=text],select{border:1px solid #8793a2;border-radius:7px;padding:8px;background:white;color:#202d3c;min-width:0}input[type=checkbox]{width:17px;height:17px;accent-color:#234775}input[type=range]{width:100%;accent-color:#234775}input[type=color]{width:42px;height:38px;padding:2px;border:1px solid #8793a2;border-radius:7px;background:#fff;cursor:pointer}input[aria-invalid=true]{outline:2px solid #972c36}
 h1,h2,h3,p{margin-top:0}h1{font-size:19px;letter-spacing:-.4px;margin-bottom:4px}h2{font-size:15px}small,.muted{color:#526071;font-size:12px}.eyebrow{font-size:10px;text-transform:uppercase;letter-spacing:1.5px;font-weight:750;color:#526071;margin-bottom:8px}.row{display:flex;align-items:center;gap:9px}.between{justify-content:space-between}.stack{display:grid;gap:12px}.card{background:#fff;border:1px solid #d6dde6;border-radius:13px;padding:14px}.toggle{display:flex;align-items:center;gap:6px;font-weight:600}.status{font-size:12px;line-height:1.5;min-height:20px;overflow-wrap:anywhere;margin:8px 0}.error{color:#8d2531}.full{width:100%}.rule{margin:12px 0;border:1px solid #d6dde6;background:#fff;border-radius:12px;padding:12px}.rule legend{font-weight:700;font-size:12px;padding:0 6px}.color-fields{display:grid;grid-template-columns:1fr 1fr;gap:12px;margin:10px 0}.color-field>span{display:block;font-size:11px;font-weight:700;margin-bottom:5px}.color-field .row{gap:5px}.hex{width:100%;font-family:ui-monospace,monospace;font-size:12px}.threshold-label{font-size:12px;display:flex;justify-content:space-between}.rule-actions{display:flex;gap:6px;margin-top:8px;justify-content:flex-end}.rule-actions button{padding:4px 7px;font-size:11px}.empty{padding:18px 6px;color:#526071;line-height:1.6}.swatchmark{width:30px;height:30px;border:2px solid #234775;border-radius:9px;display:grid;place-items:center;font-weight:800;background:#edf2f8;color:#234775;flex:none}label.name{display:grid;gap:5px;font-size:12px}.help{line-height:1.6;font-size:12px;color:#526071}hr{border:0;border-top:1px solid #d6dde6;margin:16px 0}
+.rule-name-row{display:grid;grid-template-columns:minmax(0,1fr) auto auto;gap:6px;align-items:end;margin:4px 0 10px}.rule-name-row button{padding:7px 8px;font-size:11px}.rule-name[readonly]{background:#f2f4f7;color:#465568}.recommend{width:100%;margin:0 0 10px;font-size:11px}

diff --git a/test/color.test.js b/test/color.test.js
@@ -29,6 +29,27 @@ test('OKLab reference values and distance scale', () => {
   assert.equal(Color.distance(lab, lab), 0);
   assert.ok(Math.abs(Color.distance(Color.toOklab(Color.hexToRgb('#000')), Color.toOklab(Color.hexToRgb('#fff'))) - 100) < 1e-5);
 });
+test('OKLCH target recommendation preserves lightness and chroma when in gamut', () => {
+  const suggestion = Color.recommendTarget('#28A745');
+  assert.equal(suggestion.hex, '#707EF4'); assert.equal(suggestion.exactChroma, true);
+  const source = Color.toOklch(Color.hexToRgb('#28A745')); const target = Color.toOklch(Color.hexToRgb(suggestion.hex));
+  assert.ok(Math.abs(source[0] - target[0]) < .003); assert.ok(Math.abs(source[1] - target[1]) < .003);
+});
+test('Red and green page colors are surfaced as simulated confusion candidates', () => {
+  const suggestions = Color.confusionCandidates([{ hex: '#FF0000', count: 10 }, { hex: '#008000', count: 8 }, { hex: '#0000FF', count: 3 }]);
+  assert.equal(suggestions[0].hex, '#FF0000'); assert.equal(suggestions[0].mate, '#008000');
+  assert.ok(suggestions[0].simulated < suggestions[0].normal);
+});
+test('Rule names migrate safely and defaults use order plus hostname', () => {
+  const state = Model.defaults(); const legacy = Model.rule('#FF0000'); delete legacy.name; delete legacy.customName;
+  state.profiles['github.com'] = { ...Model.profile('GitHub'), rules: [legacy, Model.rule('#00FF00')] };
+  const valid = Model.validate(state);
+  assert.equal(valid.profiles['github.com'].rules[0].name, 'rule_1_github.com');
+  assert.equal(valid.profiles['github.com'].rules[1].name, 'rule_2_github.com');
+  assert.equal(valid.profiles['github.com'].rules[0].customName, false);
+  valid.profiles['github.com'].rules[0].name = 'Status red'; valid.profiles['github.com'].rules[0].customName = true;
+  assert.equal(Model.validate(valid).profiles['github.com'].rules[0].name, 'Status red');
+});
 test('Threshold expands perceptual match and target alpha stays original', () => {
   const engine = new ColorEngine(); const rule = { ...Model.rule('#FF0000'), threshold: 0 };
   engine.setRules([rule]); assert.equal(engine.transform('#F50000'), null);

diff --git a/guide/guide.css b/guide/guide.css
@@ -1,0 +1,1 @@
+:root{font:16px/1.65 Inter,ui-sans-serif,system-ui,-apple-system,sans-serif;color:#1e2c3d;background:#f4f6f8;color-scheme:light;scroll-behavior:smooth}*{box-sizing:border-box}body{margin:0}header{background:#fff;border-bottom:1px solid #d6dde6;padding:46px max(24px,calc((100vw - 1040px)/2));display:flex;gap:20px;align-items:flex-start}.mark{width:52px;height:52px;border:3px solid #234775;border-radius:15px;display:grid;place-items:center;font-size:26px;font-weight:800;color:#234775;background:#edf2f8;flex:none}.eyebrow{font-size:12px;text-transform:uppercase;letter-spacing:1.6px;font-weight:800;color:#526071;margin:0 0 8px}h1{font-size:clamp(28px,5vw,44px);line-height:1.15;letter-spacing:-1.2px;margin:0 0 14px}header p:last-child{margin:0;color:#526071}main{max-width:1040px;margin:30px auto;padding:0 24px;display:grid;grid-template-columns:220px minmax(0,1fr);gap:28px}nav{position:sticky;top:20px;align-self:start;background:white;border:1px solid #d6dde6;border-radius:14px;padding:16px;display:grid;gap:8px}nav a,footer a{color:#234775}article{display:grid;gap:18px}section{background:#fff;border:1px solid #d6dde6;border-radius:16px;padding:26px;scroll-margin-top:20px}.step{display:inline-grid;place-items:center;width:30px;height:30px;border-radius:50%;background:#234775;color:#fff;font-weight:800}h2{font-size:23px;margin:10px 0 12px}p,li{max-width:72ch}code{background:#edf2f8;padding:2px 6px;border-radius:5px}aside{border-left:4px solid #805a00;background:#fff8e7;padding:12px 15px;border-radius:0 8px 8px 0}footer{max-width:1040px;margin:20px auto 40px;padding:20px 24px;border-top:1px solid #d6dde6;display:flex;justify-content:space-between;gap:18px;color:#526071}footer p{margin:0}@media(max-width:720px){header{padding:30px 20px}main{grid-template-columns:1fr;padding:0 16px}nav{position:static}section{padding:20px}footer{display:block}}

diff --git a/popup/popup.html b/popup/popup.html
@@ -3,4 +3,4 @@
 <body><header class="row between"><div class="row"><span class="swatchmark" aria-hidden="true">↔</span><div><h1>Color Remapper</h1><small>Your colors. Your clarity.</small></div></div><label class="toggle"><input id="enabled" type="checkbox" disabled>ON</label></header>
 <main><section class="card stack"><div><div class="eyebrow">Current site</div><strong id="domain">Loading…</strong></div><label class="toggle"><input id="site-enabled" type="checkbox" disabled>Enable on this site</label><label class="name">Profile name<input id="name" type="text" maxlength="100" disabled></label><small id="global-info"></small></section>
 <div class="row between section-heading"><h2>Color rules</h2><small>First match wins</small></div><p class="help">Similarity: 0 exact · 15 nearby · 100 broad</p><div id="rules"></div><button id="add" class="full" disabled>+ Add color rule</button><button id="pick" class="full" disabled>⌖ Pick color from page</button>
-</main><footer><p id="status" class="status" role="status" aria-live="polite"></p><div class="row"><button id="save" class="primary full" disabled>Save for site</button><button id="cancel" disabled>Cancel</button></div><p class="help">Closing discards unsaved edits. Save enables automatic site access.</p><button id="options" class="link">Advanced settings →</button></footer></body></html>
+</main><footer><p id="status" class="status" role="status" aria-live="polite"></p><div class="row"><button id="save" class="primary full" disabled>Save for site</button><button id="cancel" disabled>Cancel</button></div><p class="help">Closing discards unsaved edits. Save enables automatic site access.</p><div class="row between"><button id="options" class="link">Advanced settings →</button><a class="guide-link" href="../guide/guide.html" target="_blank">User guide</a></div></footer></body></html>

diff --git a/content/dom-scanner.js b/content/dom-scanner.js
@@ -138,6 +138,27 @@
         return P.C.PROPERTIES.map(property => ({ property, color: this.engine.parse(style.getPropertyValue(property))?.rgb })).filter(x => x.color && x.color.a > 0);
       } finally { this.sheet.disabled = false; }
     }
+    confusingColors(limit = P.C.CONFUSION_SUGGESTION_LIMIT) {
+      const counts = new Map(); let sampled = 0;
+      this.sheet.disabled = true;
+      try {
+        const walker = document.createTreeWalker(document.body || document.documentElement, NodeFilter.SHOW_ELEMENT);
+        for (let el = walker.currentNode; el && sampled < P.C.PAGE_COLOR_SAMPLE_LIMIT; el = walker.nextNode()) {
+          if (this.ignored(el)) continue;
+          const rect = el.getBoundingClientRect();
+          if (!rect.width || !rect.height) continue;
+          sampled++;
+          const style = getComputedStyle(el);
+          for (const property of P.C.PROPERTIES) {
+            const rgb = this.engine.parse(style.getPropertyValue(property))?.rgb;
+            if (!rgb || rgb.a < 0.1) continue;
+            const hex = P.Color.rgbToHex(rgb); counts.set(hex, (counts.get(hex) || 0) + 1);
+          }
+        }
+      } finally { this.sheet.disabled = false; }
+      const entries = [...counts].map(([hex, count]) => ({ hex, count })).sort((a, b) => b.count - a.count).slice(0, P.C.PAGE_COLOR_UNIQUE_LIMIT);
+      return { sampled, unique: counts.size, suggestions: P.Color.confusionCandidates(entries, limit) };
+    }
     getStats() {
       return { ...this.stats, active: this.active, pending: this.roots.size + this.walkers.length,
         retainedElements: this.records.size, cssRuleSlots: this.sheet.cssRules.length,

diff --git a/privacy.html b/privacy.html
@@ -1,6 +1,6 @@
 <!doctype html>
 <html lang="en"><head><meta charset="utf-8"><meta name="viewport" content="width=device-width,initial-scale=1"><title>Personal Color Remapper — Privacy</title><style>body{font:16px/1.7 system-ui;color:#202d3c;max-width:760px;margin:48px auto;padding:0 24px}h1{line-height:1.2}h2{font-size:21px;margin-top:32px}small{color:#526071}</style></head><body>
-<h1>Personal Color Remapper<br>Privacy Notice</h1><small>Effective September 20, 2026 · Version 1.1.0</small>
+<h1>Personal Color Remapper<br>Privacy Notice</h1><small>Effective September 23, 2026 · Version 1.2.0</small>
 <h2>Local processing</h2><p>The extension reads webpage DOM and computed CSS colors to replace colors according to rules you select. This processing takes place in your browser. The screen eyedropper, when used, returns a selected color locally. We do not receive page content, selected pixels, browsing history or palettes.</p>
 <h2>Settings stored on your device</h2><p>Chrome local extension storage holds source/target HEX colors, similarity thresholds, rule IDs, profile names, hostnames and enable switches. No account is required. The extension has no backend, analytics, advertising, telemetry or cloud synchronization.</p>
 <h2>Permissions</h2><p>Temporary current-tab access is used when you invoke the extension. Persistent access is requested for sites you choose, so saved rules can apply on later visits. You can optionally grant access to all regular HTTP/HTTPS websites. Browser-protected pages cannot be remapped.</p>
